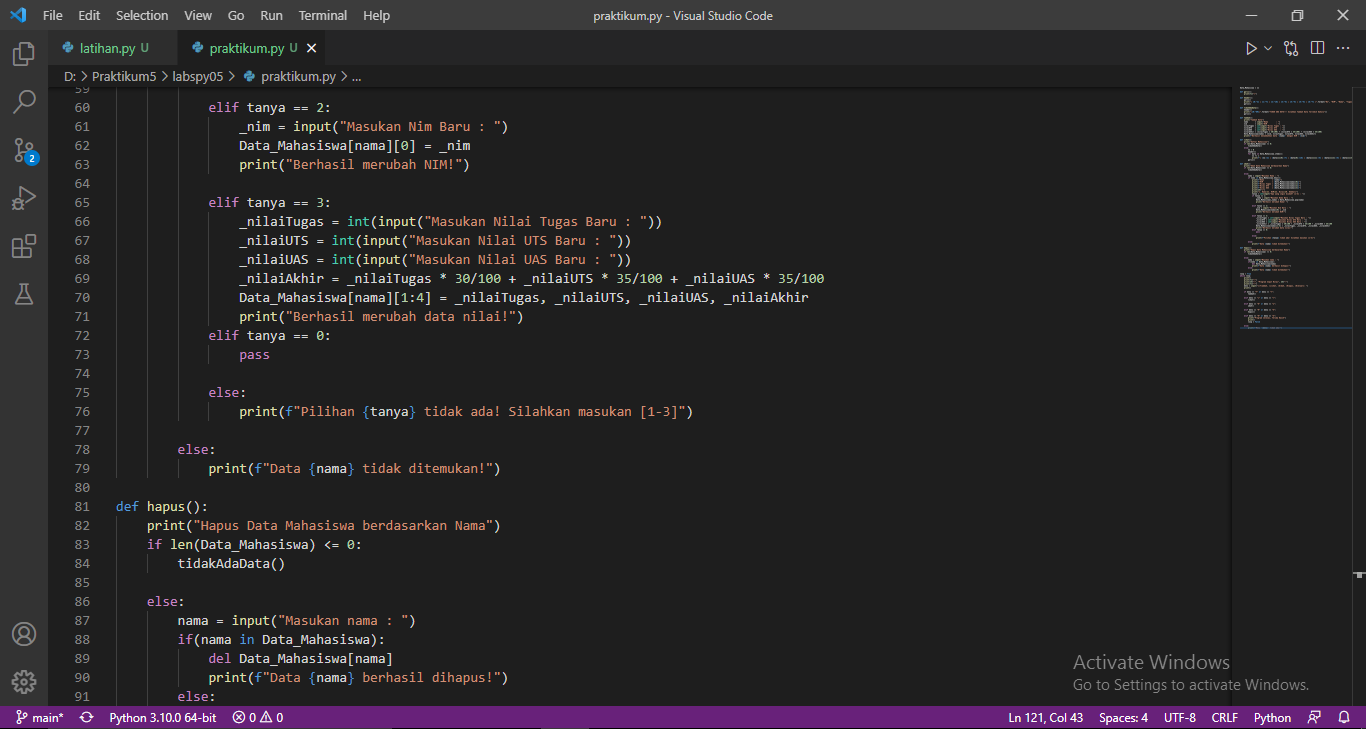
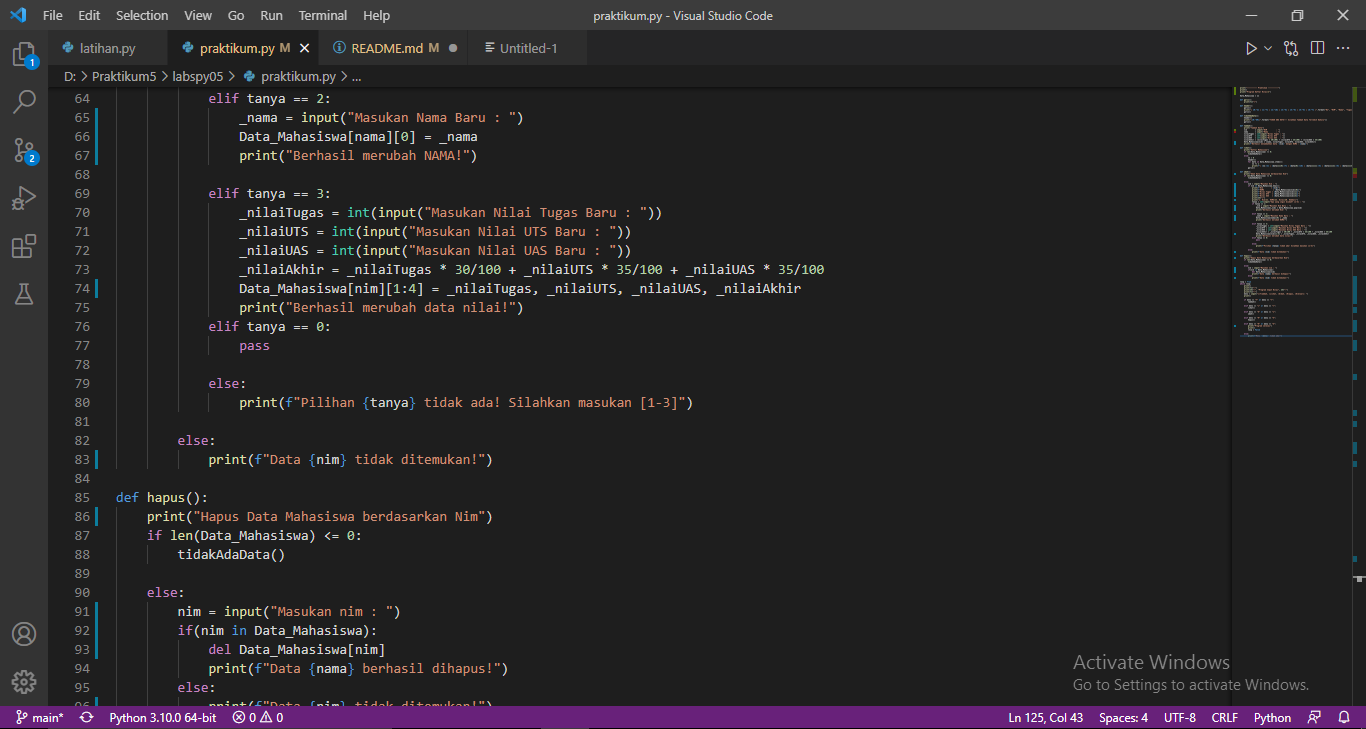
Menambahkan File

diff --git a/praktikum.py b/praktikum.py
@@ -1,3 +1,7 @@
+print("---------- Praktikum ----------")
+print()
+print("Program Daftar Nilai\n")
+
 Data_Mahasiswa = {} 
 
 def garis():
@@ -15,14 +19,14 @@ def tidakAdaData():
 
 def tambah():
     print("Tambah Data")
-    nama       = input("Nama        : ")
     nim        = input("NIM         : ")
+    nama       = input("Nama        : ")
     nilaiTugas = int(input("Nilai Tugas : "))
     nilaiUTS   = int(input("Nilai UTS   : "))
     nilaiUAS   = int(input("Nilai UAS   : "))
     nilaiAkhir = (nilaiTugas * 30/100) + (nilaiUTS * 35/100) + (nilaiUAS * 35/100)
-    Data_Mahasiswa[nama] = [nim, nilaiTugas, nilaiUTS, nilaiUAS, nilaiAkhir]
-    print(f"Berhasil menambahkan data '{nama}' dengan NIM : {nim}")
+    Data_Mahasiswa[nim] = [nama, nilaiTugas, nilaiUTS, nilaiUAS, nilaiAkhir]
+    print(f"Berhasil menambahkan data '{nim}' dengan NAMA : {nama}")
 
 def lihat():
     print("Daftar Mahasiswa")
@@ -37,37 +41,37 @@ def lihat():
         garis() 
 
 def ubah():
-    print("Ubah Data Mahasiswa berdasarkan Nama")
+    print("Ubah Data Mahasiswa berdasarkan Nim")
     if len(Data_Mahasiswa) <= 0:  
         tidakAdaData()
 
     else:
-        nama = input("Masukan Nama : ") 
-        if nama in Data_Mahasiswa.keys():
-            print(f"Nama        = {nama}")
-            print(f"NIM         = {Data_Mahasiswa[nama][0]}")
-            print(f"Nilai Tugas = {Data_Mahasiswa[nama][1]}")
-            print(f"Nilai UTS   = {Data_Mahasiswa[nama][2]}")
-            print(f"Nilai UAS   = {Data_Mahasiswa[nama][3]}")
+        nim = input("Masukan Nim : ") 
+        if nim in Data_Mahasiswa.keys():
+            print(f"Nim        = {nim}")
+            print(f"NAMA         = {Data_Mahasiswa[nim][0]}")
+            print(f"Nilai Tugas = {Data_Mahasiswa[nim][1]}")
+            print(f"Nilai UTS   = {Data_Mahasiswa[nim][2]}")
+            print(f"Nilai UAS   = {Data_Mahasiswa[nim][3]}")
             print(25*"=")
-            print("1. Nama\n2. NIM\n3. Nilai\n0. Kembali")
+            print("1. Nim\n2. NAMA\n3. Nilai\n0. Kembali")
             tanya = int(input("Apa yang ingin diubah? [1-3] : "))
             if tanya == 1:
-                _nama = input("Masukan Nama Baru : ")
-                Data_Mahasiswa[_nama] = Data_Mahasiswa.pop(nama)
-                print("Berhasil merubah Nama! ")
+                _nim = input("Masukan Nim Baru : ")
+                Data_Mahasiswa[_nim] = Data_Mahasiswa.pop(nim)
+                print("Berhasil merubah Nim! ")
 
             elif tanya == 2:
-                _nim = input("Masukan Nim Baru : ")
-                Data_Mahasiswa[nama][0] = _nim
-                print("Berhasil merubah NIM!")
+                _nama = input("Masukan Nama Baru : ")
+                Data_Mahasiswa[nama][0] = _nama
+                print("Berhasil merubah NAMA!")
 
             elif tanya == 3:
                 _nilaiTugas = int(input("Masukan Nilai Tugas Baru : "))
                 _nilaiUTS = int(input("Masukan Nilai UTS Baru : "))
                 _nilaiUAS = int(input("Masukan Nilai UAS Baru : "))
                 _nilaiAkhir = _nilaiTugas * 30/100 + _nilaiUTS * 35/100 + _nilaiUAS * 35/100
-                Data_Mahasiswa[nama][1:4] = _nilaiTugas, _nilaiUTS, _nilaiUAS, _nilaiAkhir
+                Data_Mahasiswa[nim][1:4] = _nilaiTugas, _nilaiUTS, _nilaiUAS, _nilaiAkhir
                 print("Berhasil merubah data nilai!")
             elif tanya == 0:
                 pass
@@ -76,20 +80,20 @@ def ubah():
                 print(f"Pilihan {tanya} tidak ada! Silahkan masukan [1-3]")
 
         else:
-            print(f"Data {nama} tidak ditemukan!") 
+            print(f"Data {nim} tidak ditemukan!") 
 
 def hapus():
-    print("Hapus Data Mahasiswa berdasarkan Nama")
+    print("Hapus Data Mahasiswa berdasarkan Nim")
     if len(Data_Mahasiswa) <= 0:  
         tidakAdaData()
 
     else:
-        nama = input("Masukan nama : ")
-        if(nama in Data_Mahasiswa):
-            del Data_Mahasiswa[nama]
+        nim = input("Masukan nim : ")
+        if(nim in Data_Mahasiswa):
+            del Data_Mahasiswa[nim]
             print(f"Data {nama} berhasil dihapus!")
         else:
-            print(f"Data {nama} tidak ditemukan!")
+            print(f"Data {nim} tidak ditemukan!")
 
 loop = True
 while loop:
@@ -113,7 +117,7 @@ while loop:
         hapus()
 
     elif menu == "K" or menu == "k":
-        print("Program selesai, Terima Kasih")
+        print("Program selesai")
         print()
         loop = False 
 

diff --git a/README.md b/README.md
@@ -1,1 +1,233 @@
 # labspy05
+## Profil
+Nama : D.Wita Aeni
+Nim : 312110222
+Kelas : TI.21.A.1
+
+## Latihan 
+- Buat Dictionary daftar kontak
+- Tampilkan kontak Ari
+- Tambah kontak baru dengan nama Riko, nomor 627654544
+- Ubah kontak Dina dengan nomor baru 6288999776
+- Tampilkan semua nama
+- Tampilkan semua nomor
+- Tampilkan daftar nama dan nomornya
+- Hapus kontak Dina
+
+### PROGRAM
+
+![Gambar 1](Screenshot/Program-latihan-1.png)
+
+![Gambar 2](Screenshot/Program-latihan-2.png)
+
+
+### OUTPUT
+
+![Gambar 1](Screenshot/Output-latihan-1.png)
+
+![Gambar 2](Screenshot/Output-latihan-2.png)
+
+## Praktikum
+### Program
+
+![Gambar 1](Screenshot/Program-praktikum-1.png)
+
+![Gambar 2](Screenshot/Program-praktikum-2.png)
+
+![Gambar 3](Screenshot/Program-praktikum-3.png)
+
+![Gambar 4](Screenshot/Program-praktikum-4.png)
+
+### Penjelasan:
+ 
+ 1. Buat dictionary telebih dahulu untuk diisi dengan data
+ ```python
+Data_Mahasiswa = {} 
+ ```
+ 
+ 2. Buat Function tambahan 
+ ```python
+def garis():
+    print(71*"=")
+
+def header():
+    garis()
+    print("| {0:^2} | {1:^7} | {2:^18} | {3:^5} | {4:^5} | {5:^5} | {6:^7} |".format("No", "NIM", "Nama", "Tugas", "UTS", "UAS", "Akhir"))
+    garis()
+
+def tidakAdaData(): 
+    header()          
+    print("|{0:^69}|".format("TIDAK ADA DATA!!! Silahkan Tambah Data Terlebih Dahulu"))
+    garis()
+ ```
+
+ 3. Membuat Function Program
+#### Tambah()
+- Masukan data
+- Jika sudah dimasukan, maka data tersebut akan dimasukkan kedalam Dict `Data_Mahasiswa`
+- Maka akan menampilkan "Berhasil menambahkan data 'nim' dengan NAMA : nama"
+ ```python
+ def tambah():
+    print("Tambah Data")
+    nim       = input("Nim        : ")
+    nama        = input("NAMA         : ")
+    nilaiTugas = int(input("Nilai Tugas : "))
+    nilaiUTS   = int(input("Nilai UTS   : "))
+    nilaiUAS   = int(input("Nilai UAS   : "))
+    nilaiAkhir = (nilaiTugas * 30/100) + (nilaiUTS * 35/100) + (nilaiUAS * 35/100)
+    Data_Mahasiswa[nim] = [nama, nilaiTugas, nilaiUTS, nilaiUAS, nilaiAkhir]
+    print(f"Berhasil menambahkan data '{nim}' dengan NAMA : {nama}") 
+ ```
+
+ #### Lihat()
+ 1) Jika Dictionary `Data_Mahasiswa` tidak ada data maka memanggil function `tidakAdaData`
+ ```python
+ def lihat():
+    print("Daftar Mahasiswa")
+    if len(Data_Mahasiswa) <= 0:  
+        tidakAdaData()
+ ```
+ 
+2) Program Lihat Data dijalankan 
+- Untuk mengeluarkan data gunakan looping
+
+```python
+else:
+    no = 0
+    header()
+    for data in Data_Mahasiswa.items():
+            no += 1 
+            print(f"| {no:>2} | {data[1][0]:<7} | {data[0]:<18} | {data[1][1]:>5} | {data[1][2]:>5} | {data[1][3]:>5} | {data[1][4]:>7.2f} |")               
+    garis() 
+```
+
+#### Ubah()
+1) Jika Dictionary `Data_Mahasiswa` tidak ada data maka memanggil function `tidakAdaData`
+ ```python
+ def ubah():
+    print("Ubah Data Mahasiswa berdasarkan Nim")
+    if len(Data_Mahasiswa) <= 0:  
+        tidakAdaData()
+ ```
+ 
+2) Program Ubah Data dijalankan berdasarkan nim
+- Masukan nim sebagai key lalu akan memunculkan isi data dari key tersebut
+- Apabila salah memasukkan nim, maka akan mengeluarkan "data nim tidak ditemukan!"
+- Selanjutnya diberi pilihan apa yang akan diubah, namun jika ingin membatalkan maka ketik 0
+- Apabila salah memasukkan pilihan maka akan mengeluarkan "Pilihan input tidak ada! Silahkan masukan [1-3]"
+ ```python
+else:
+   nim = input("Masukan nim : ")
+   if nama in Data_Mahasiswa.keys():
+      print(f"Nim        = {nim}")
+      print(f"NAMA         = {Data_Mahasiswa[nim][0]}")
+      print(f"Nilai Tugas = {Data_Mahasiswa[nim][1]}")
+      print(f"Nilai UTS   = {Data_Mahasiswa[nim][2]}")
+      print(f"Nilai UAS   = {Data_Mahasiswa[nim][3]}")
+      print(25*"=")
+      print("1. Nim\n2. NAMA\n3. Nilai\n0. Kembali")
+      tanya = int(input("Apa yang ingin diubah? [1-3] : "))
+      ...      
+      elif tanya == 0:
+          pass
+          
+      else:
+          print(f"Pilihan {tanya} tidak ada! Silahkan masukan [1-3]")
+   else:
+      print(f"Data {nim} tidak ditemukan!") 
+ ```
+ 
+ ##### Mengubah Nim
+ Masukan nim baru, maka nim akan berubah dan mengeluarkan "Berhasil merubah Nim!"
+ ```python
+ if tanya == 1:
+    _nim = input("Masukan Nim Baru : ")
+    Data_Mahasiswa[_nim] = Data_Mahasiswa.pop(nim)
+    print("Berhasil merubah Nim! ")
+ ```
+
+##### Mengubah NAMA
+Masukan NAMA baru, maka NAMA akan berubah dan mengeluarkan "Berhasil merubah NAMA!"
+```python
+elif tanya == 2:
+    _nama = input("Masukan Nama Baru : ")
+    Data_Mahasiswa[nim][0] = _nama
+    print("Berhasil merubah NAMA!")
+```
+
+##### Mengubah Nilai
+Masukan nilai baru, maka nilai akan berubah dan mengeluarkan "Berhasil merubah data nilai!"
+```python
+elif tanya == 3:
+    _nilaiTugas = int(input("Masukan Nilai Tugas Baru : "))
+    _nilaiUTS = int(input("Masukan Nilai UTS Baru : "))
+    _nilaiUAS = int(input("Masukan Nilai UAS Baru : "))
+    _nilaiAkhir = _nilaiTugas * 30/100 + _nilaiUTS * 35/100 + _nilaiUAS * 35/100
+    Data_Mahasiswa[nim][1:4] = _nilaiTugas, _nilaiUTS, _nilaiUAS, _nilaiAkhir
+    print("Berhasil merubah data nilai!")
+```
+
+#### Hapus Data()
+1) Jika Dictionary `Data_Mahasiswa` tidak ada maka memanggil function `tidakAdaData`
+```python
+def hapus():
+    print("Hapus Data Mahasiswa berdasarkan Nim")
+    if len(Data_Mahasiswa) <= 0:  
+        tidakAdaData()
+```
+
+2) Program Hapus Data Dijalankan
+- Masukan nim sebagai key data yang akan dihapus
+- Apabila salah memasukan nim, maka akan mengeluarkan "data nim tidak ditemukan!"
+```python
+else:
+     nim = str(input("Masukan nim : "))
+     if(nim in Data_Mahasiswa):
+         del Data_Mahasiswa[nim]
+         print(f"Data {nim} berhasil dihapus!")
+     else:
+         print(f"Data {nim} tidak ditemukan!") 
+```
+
+#### Menu
+- Gunakan infinite loop sampai loopnya jadi false
+- Jika salah memasukkan inputan maka akan muncul "Menu 'menu' tidak ada!"
+- Apabila sudah benar maka function yang sudah dibuat akan dijalankan
+```python
+loop = True
+while loop:
+    print()
+    print(71*"-")
+    print(25*"-", "Program Input Nilai", 25*"-")
+    print(71*"-")
+    menu = input("[(T)ambah, (L)ihat, (U)bah, (H)apus, (K)eluar]: ")
+    print()
+
+    if menu == "T" or menu == "t":     
+        tambah()
+
+    elif menu == "L" or menu == "l":
+        lihat()
+
+    elif menu == "U" or menu == "u":
+        ubah() 
+
+    elif menu == "H" or menu == "h":
+        hapus()
+
+    elif menu == "K" or menu == "k":
+        print("Program selesai")
+        print()
+        loop = False 
+
+    else:
+        print(f"Menu '{menu}' tidak ada!")
+```
+
+### Output
+![Gambar 1](Screenshot/Output-praktikum-1.png)
+
+![Gambar 2](Screenshot/Output-praktikum-2.png)
+
+### Selesai
+## Terima Kasih
